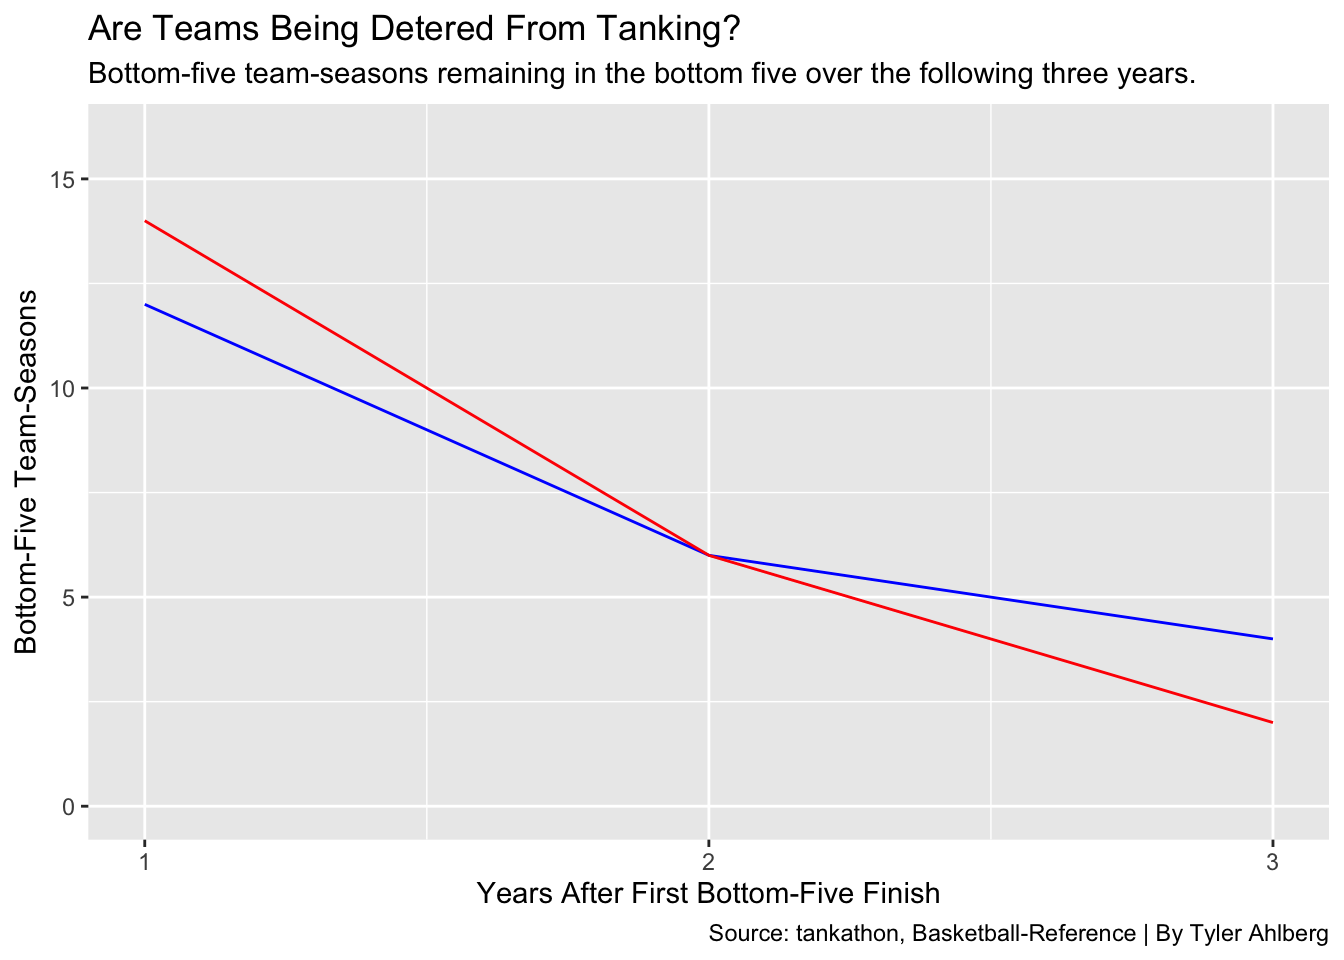
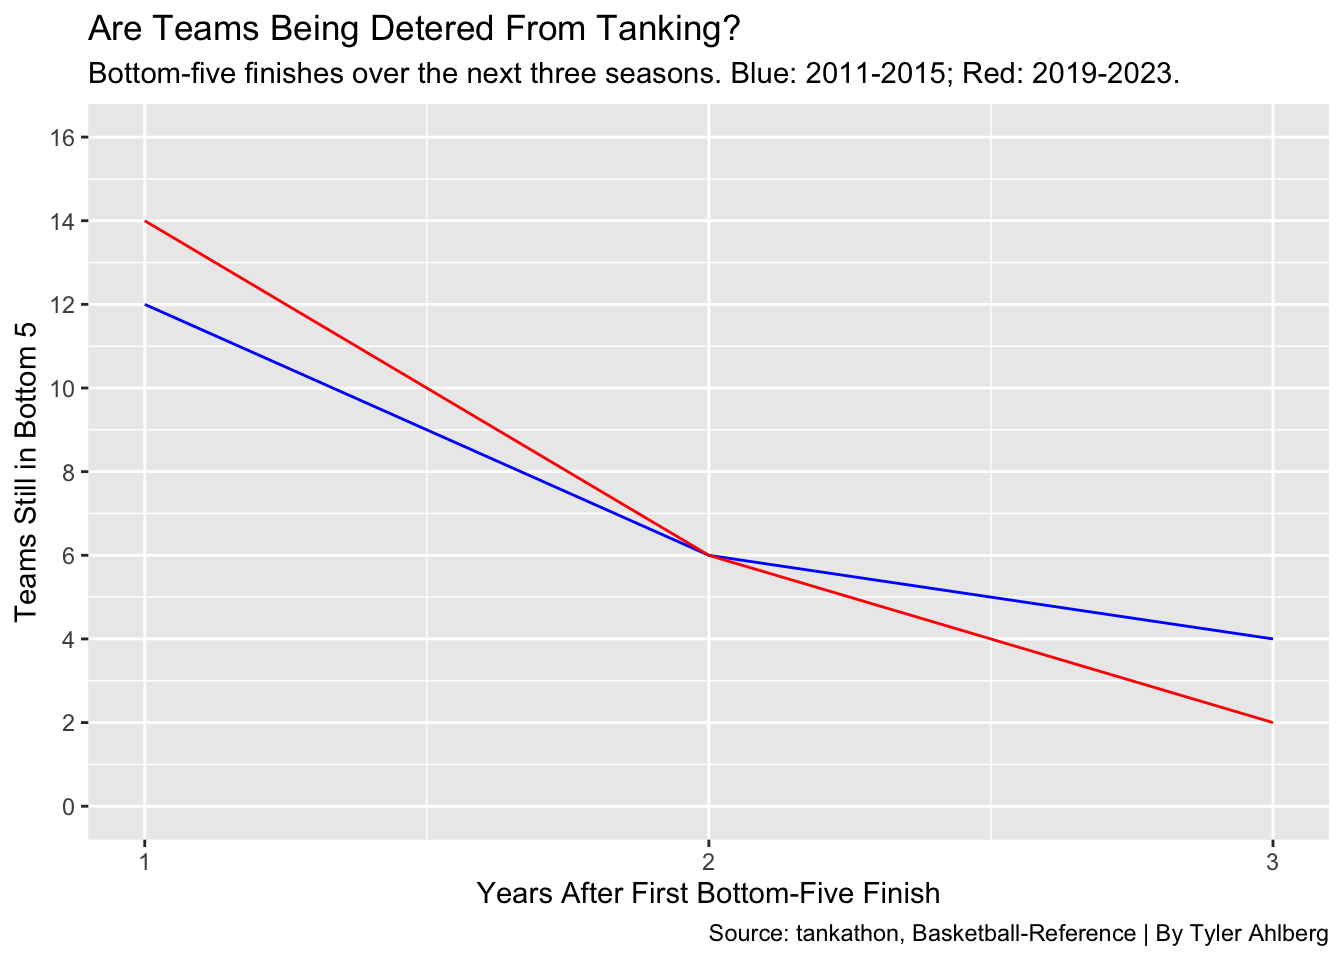
working pt 2

diff --git a/posts/index.html b/posts/index.html
@@ -714,13 +714,15 @@ dbl (6): Season, Follow_Up_Year, Wins, Losses, Win Pct, Bottom_five
 <span id="cb13-17"><a href="#cb13-17" aria-hidden="true" tabindex="-1"></a>  <span class="fu">geom_line</span>(<span class="at">data=</span>TankingBad, <span class="fu">aes</span>(<span class="at">x=</span>Follow_Up_Year, <span class="at">y=</span>Teams_Bottom_Five), <span class="at">color=</span><span class="st">"red"</span>) <span class="sc">+</span></span>
 <span id="cb13-18"><a href="#cb13-18" aria-hidden="true" tabindex="-1"></a>  <span class="fu">labs</span>(</span>
 <span id="cb13-19"><a href="#cb13-19" aria-hidden="true" tabindex="-1"></a>    <span class="at">x=</span><span class="st">"Years After First Bottom-Five Finish"</span>,</span>
-<span id="cb13-20"><a href="#cb13-20" aria-hidden="true" tabindex="-1"></a>    <span class="at">y=</span><span class="st">"Bottom-Five Team-Seasons"</span>,</span>
+<span id="cb13-20"><a href="#cb13-20" aria-hidden="true" tabindex="-1"></a>    <span class="at">y=</span><span class="st">"Teams Still in Bottom 5"</span>,</span>
 <span id="cb13-21"><a href="#cb13-21" aria-hidden="true" tabindex="-1"></a>    <span class="at">title=</span><span class="st">"Are Teams Being Detered From Tanking?"</span>,</span>
-<span id="cb13-22"><a href="#cb13-22" aria-hidden="true" tabindex="-1"></a>    <span class="at">subtitle=</span><span class="st">"Bottom-five team-seasons remaining in the bottom five over the following three years."</span>,</span>
+<span id="cb13-22"><a href="#cb13-22" aria-hidden="true" tabindex="-1"></a>    <span class="at">subtitle=</span><span class="st">"Bottom-five finishes over the next three seasons. Blue: 2011-2015; Red: 2019-2023."</span>,</span>
 <span id="cb13-23"><a href="#cb13-23" aria-hidden="true" tabindex="-1"></a>    <span class="at">caption=</span><span class="st">"Source: tankathon, Basketball-Reference | By Tyler Ahlberg"</span></span>
 <span id="cb13-24"><a href="#cb13-24" aria-hidden="true" tabindex="-1"></a>  ) <span class="sc">+</span></span>
 <span id="cb13-25"><a href="#cb13-25" aria-hidden="true" tabindex="-1"></a>  <span class="fu">scale_x_continuous</span>(<span class="at">breaks=</span><span class="fu">c</span>(<span class="dv">1</span>, <span class="dv">2</span>, <span class="dv">3</span>)) <span class="sc">+</span></span>
-<span id="cb13-26"><a href="#cb13-26" aria-hidden="true" tabindex="-1"></a>  <span class="fu">scale_y_continuous</span>(<span class="at">limits=</span><span class="fu">c</span>(<span class="dv">0</span>, <span class="dv">16</span>))</span></code></pre></div><button title="Copy to Clipboard" class="code-copy-button"><i class="bi"></i></button></div>
+<span id="cb13-26"><a href="#cb13-26" aria-hidden="true" tabindex="-1"></a>  <span class="fu">scale_y_continuous</span>(</span>
+<span id="cb13-27"><a href="#cb13-27" aria-hidden="true" tabindex="-1"></a>  <span class="at">breaks=</span><span class="fu">seq</span>(<span class="dv">0</span>, <span class="dv">16</span>, <span class="at">by=</span><span class="dv">2</span>),</span>
+<span id="cb13-28"><a href="#cb13-28" aria-hidden="true" tabindex="-1"></a>  <span class="at">limits=</span><span class="fu">c</span>(<span class="dv">0</span>, <span class="dv">16</span>))</span></code></pre></div><button title="Copy to Clipboard" class="code-copy-button"><i class="bi"></i></button></div>
 </details>
 <div class="cell-output-display">
 <div>
@@ -1104,6 +1106,9 @@ dbl (6): Season, Follow_Up_Year, Wins, Losses, Win Pct, Bottom_five
  @ validate: logi TRUE</code></pre>
 </div>
 </div>
+<p>Looking at four years in the pre-reform seasons and four years in the post-reform seasons, after their initial bottom-five both groups saw the same amount of teams still remaining in the bottom five after two seasons with six. In the third and final tracked year in the bottom 5 we see the post-reform group actually have less teams hanging around at the bottom than the pre-reform group.</p>
+<p>So it seems that the initial lottery overhaul to deter tanking was effective in its ability to steer bad teams away from getting what was basically a guaranteed top 2 pick while simultaneously keeping teams from sticking around the bottom of the pile at a better rate than the years before the reform. Yet we sit here months after the most drastic anti-tanking measure in the history of North American sports. Why? Does the NBA have a tanking problem? It doesn’t seem like it, the measures taken to deter tanking seem to have worked at comparable if not better rather than before the 2019 lottery change implementation.</p>
+<p>Now we sit here in early 2026, the Sacramento Kings sit at a measly 1-10 record and are set to be punished for it with worse odds at acquiring top talent after a previous lottery reform seemingly worked? In the modern NBA bad teams are set to be punished for the first time in the history of the league, discontinuing a staple of not only the NBA, but North American sports at large. The attempted installment of parity via an even disreputation of the top amateur talent every season. The NBA has created a purgatory for bad teams.</p>
 
 
 

diff --git a/index.html b/index.html
@@ -233,7 +233,7 @@ Harlow Malloc
 </a>
 </div>
 </div>
-<div class="quarto-post image-right" data-index="1" data-categories="TkJBJTJDTkJBX0RyYWZ0JTJDVGFua2luZw==" data-listing-date-sort="1793599200000" data-listing-file-modified-sort="1794593549373" data-listing-date-modified-sort="NaN" data-listing-reading-time-sort="5" data-listing-word-count-sort="982">
+<div class="quarto-post image-right" data-index="1" data-categories="TkJBJTJDTkJBX0RyYWZ0JTJDVGFua2luZw==" data-listing-date-sort="1793599200000" data-listing-file-modified-sort="1794595021946" data-listing-date-modified-sort="NaN" data-listing-reading-time-sort="7" data-listing-word-count-sort="1260">
 <div class="thumbnail"><a href="./posts/index.html" class="no-external-icon">
 
 <img loading="lazy" src="./posts/image.png" class="thumbnail-image">
